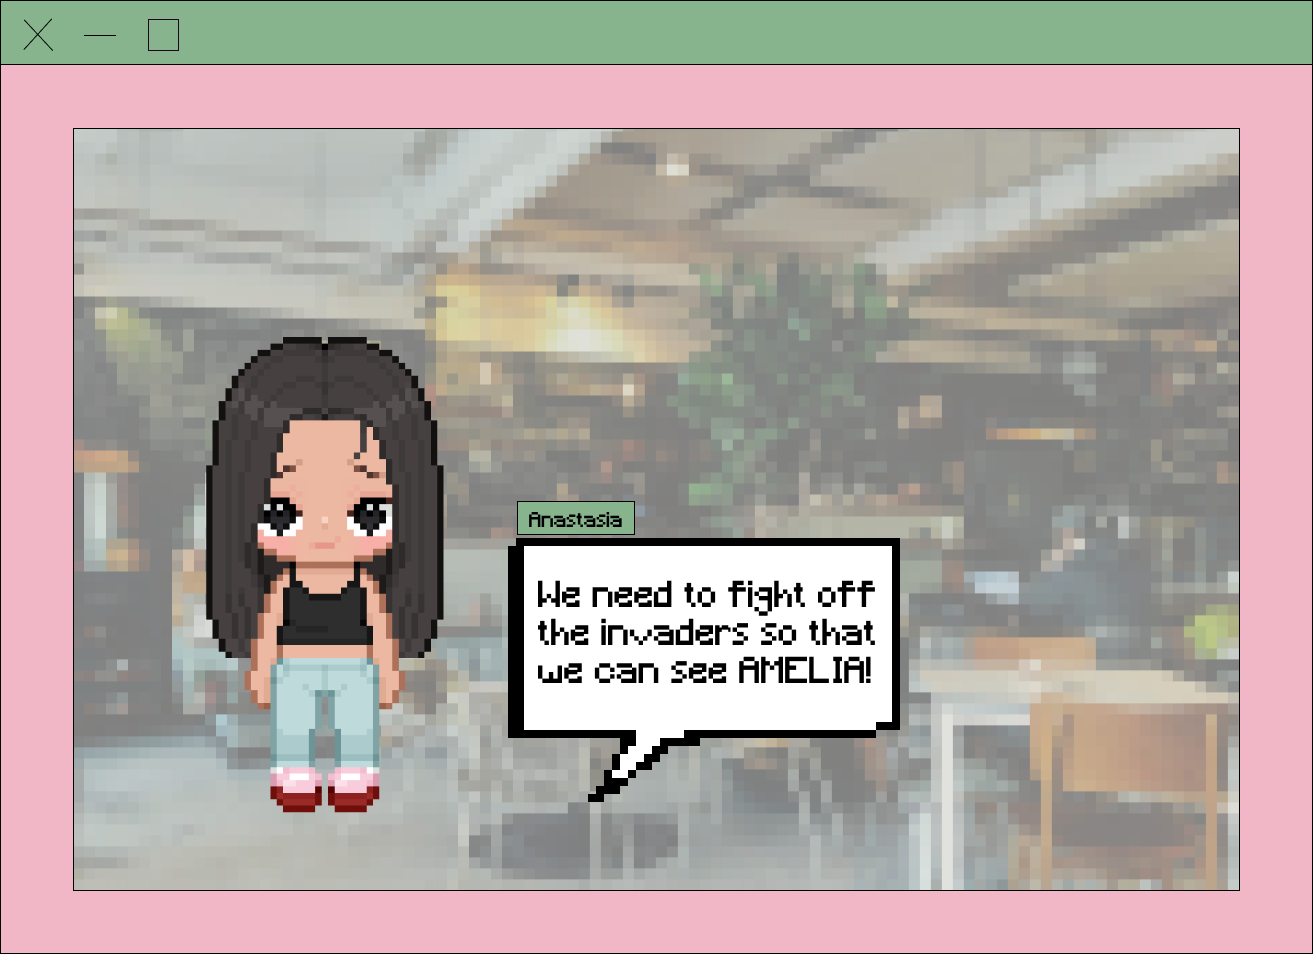
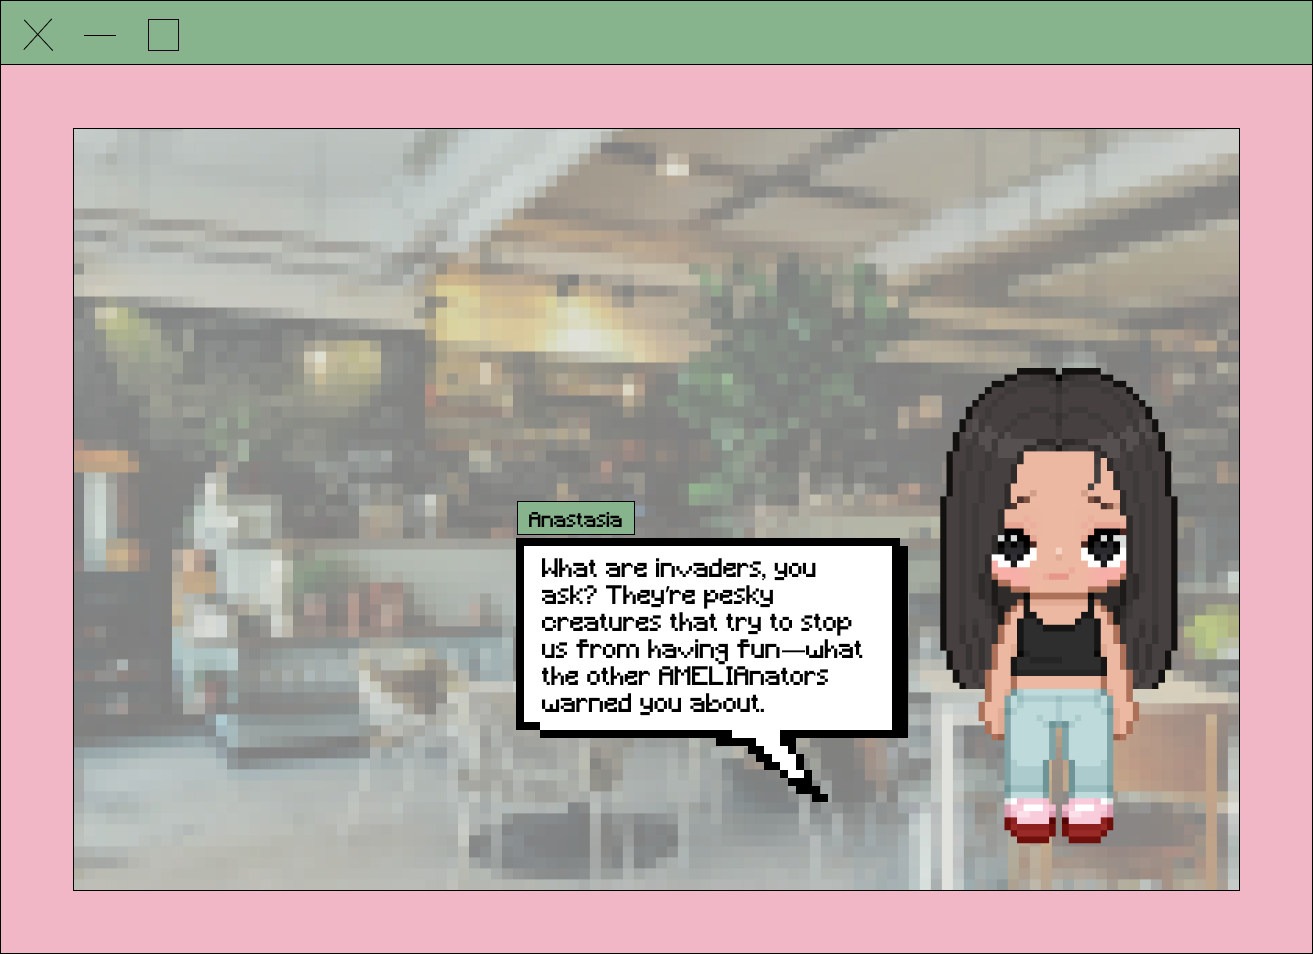
reconfigured scenes

Changed region(s): [[0.3747, 0.3648, 0.9056, 0.8816], [0.1561, 0.3344, 0.3435, 0.8512], [0.6558, 0.76, 0.687, 0.7904]]

diff --git a/html/desktop21.html b/html/desktop21.html
@@ -76,10 +76,10 @@
 	 </div>
 	
 	<div id="links">
-		<img class="img_window" src="../scenes/scene19.png">
+		<img class="img_window" src="../scenes/final-scene.png">
 		<div>
 			<button class="button-container">
-				<a href="../game3/index.html">Play</a>
+				<a href="../index.html">Play Again</a>
 			</button>
 		</div>
 

diff --git a/html/desktop20.html b/html/desktop20.html
@@ -76,10 +76,10 @@
 	 </div>
 	
 	<div id="links">
-		<img class="img_window" src="../scenes/scene19.png">
+		<img class="img_window" src="../scenes/scene20.png">
 		<div>
 			<button class="button-container">
-				<a href="../game3/index.html">Play</a>
+				<a href="../html/desktop21.html">Next</a>
 			</button>
 		</div>
 

diff --git a/game3/index.html b/game3/index.html
@@ -25,7 +25,7 @@
   <footer>
     <section class="center">
       <button><a href="./index.html">Replay</a></button>
-      <button><a href="../html/desktop18.html">Next</a></button>
+      <button><a href="../html/desktop20.html">Next</a></button>
     </section>
   </footer>
 </html>

diff --git a/html/desktop17.html b/html/desktop17.html
@@ -79,7 +79,7 @@
 		<img class="img_window" src="../scenes/scene17.png">
 		<div>
 			<button class="button-container">
-				<a href="../game3/index.html">Next</a>
+				<a href="../html/desktop18.html">Next</a>
 			</button>
 		</div>
 

diff --git a/html/desktop6.html b/html/desktop6.html
@@ -77,7 +77,7 @@
 		<img class="img_window" src="../scenes/scene6.png">
 		<div>
 			<button class="button-container">
-				<a href="../game1/index.html">Next</a>
+				<a href="../game1/index.html">Play</a>
 			</button>
 		</div>
 
